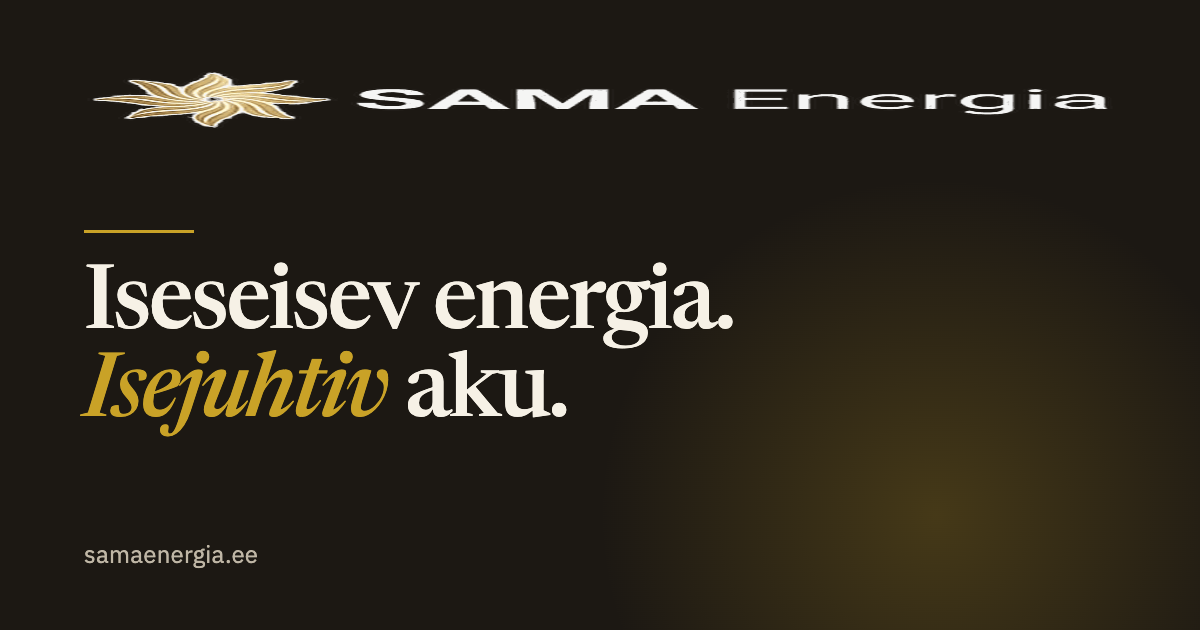
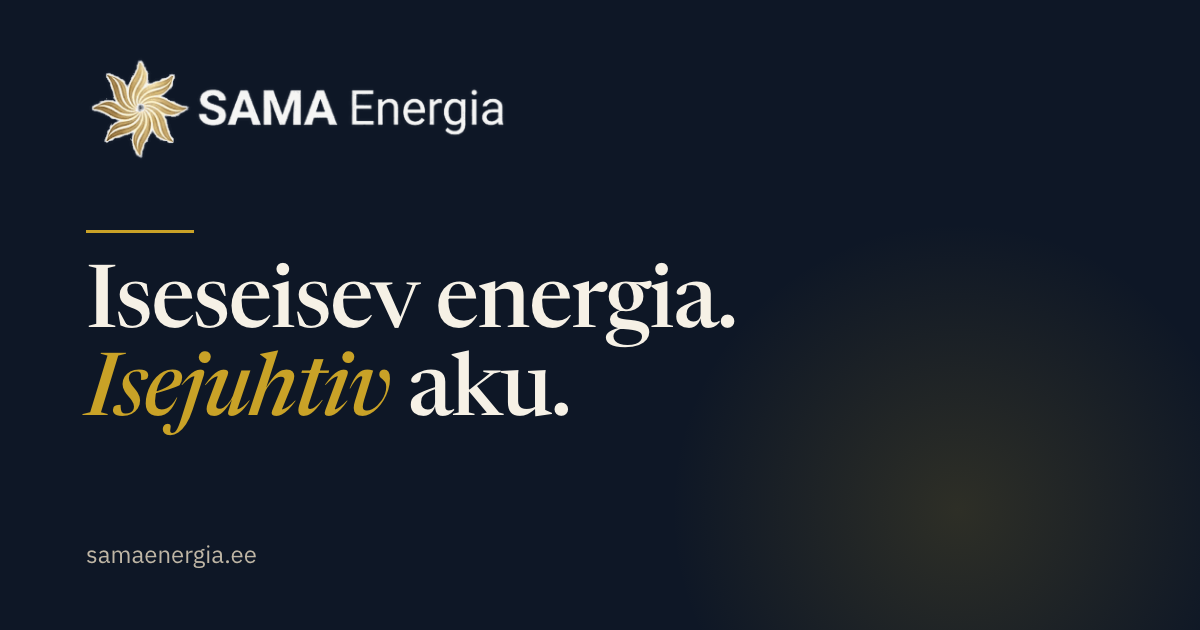
v17-4a: SVG-tyylit rajattu, OG-kuvat siniselle, hero-CLS (a1)
- Kaavioiden omat <style>-lohkot (9 kpl: chart-scale, chart-day, chart-yield,
  chart-figure) rajattu juuriluokkaansa; ne vuotivat koko dokumenttiin.
  Alle 600 px:n ohitukset site.css:ssä saivat svg-etuliitteen, jotta ne
  yhä voittavat rajatut säännöt dokumenttijärjestyksessä.
  Selitteiden koot ja piilotukset ennallaan 1440:ssä ja 390:ssä;
  11 kaaviosivua × 2 leveyttä pikselidiff = 0.
- OG-kuvat renderöity uudelleen yöpaletin pohjalle (#1C1813 -> #0E1726).
  Malli puuttui reposta; rakennettu uudelleen (scripts/og/og-template.html)
  ja renderöinti riippuvuudettomalla skriptillä (scripts/og/render-og.mjs).
  Sama 1200x630, sama typografia (otsikkolohko 3 px:n sisällä entisestä),
  sama logo — mutta oikeassa kuvasuhteessa: entisissä mark-night.png oli
  venytetty 878x222 -> ~1013x55.
- Hero-CLS: ei muutosta. Mitattu CLS 0 (Lighthouse mobile, mediaani, molemmat
  kielet) ja 0,0001-0,0172 kun fontit viivastettiin 1,5 s; h1:n korkeus on
  identtinen webfontilla ja varafontilla kaikilla mittapisteillä, joten
  min-height olisi kuollutta CSS:aa. Luvut raportissa.

diff --git a/src/fi.html b/src/fi.html
@@ -132,7 +132,7 @@
     </div>
     <div class="card reveal">
       <svg viewBox="0 0 440 230" fill="none" class="chart-scale">
-          <defs><style>.lab{font:600 11px 'IBM Plex Sans',sans-serif;letter-spacing:.06em}.hz{font:500 13px 'IBM Plex Sans',sans-serif}.sec{font:400 11.5px 'IBM Plex Sans',sans-serif}.flow{font:500 11.5px 'IBM Plex Sans',sans-serif}</style></defs>
+          <defs><style>.chart-scale .lab{font:600 11px 'IBM Plex Sans',sans-serif;letter-spacing:.06em}.chart-scale .hz{font:500 13px 'IBM Plex Sans',sans-serif}.chart-scale .sec{font:400 11.5px 'IBM Plex Sans',sans-serif}.chart-scale .flow{font:500 11.5px 'IBM Plex Sans',sans-serif}</style></defs>
           <path d="M206 150h28l-14-64z" fill="#F3EEE1" stroke="#8B857A" stroke-width="1.2" stroke-linejoin="round"/>
           <rect x="150" y="150" width="140" height="6" rx="3" fill="#F3EEE1" stroke="#8B857A" stroke-width="1"/>
           <g class="beam-loop" style="transform-origin:220px 82px"><rect x="80" y="79" width="280" height="6" rx="3" fill="#C9A227"/><circle cx="220" cy="82" r="7" fill="#fff" stroke="#C9A227" stroke-width="2"/></g>
@@ -396,7 +396,7 @@
         <defs>
           <pattern id="stripes" width="8" height="8" patternUnits="userSpaceOnUse" patternTransform="rotate(45)"><rect width="8" height="8" fill="#FBF7EA"/><rect width="2" height="8" fill="#EFE3BF"/></pattern>
           <linearGradient id="socg" x1="0" y1="0" x2="0" y2="1"><stop offset="0" stop-color="#C9A227" stop-opacity=".55"/><stop offset="1" stop-color="#C9A227" stop-opacity=".08"/></linearGradient>
-          <style>.ax{font:500 11px 'IBM Plex Sans',sans-serif;fill:#7A746A}.ph{font:600 11px 'IBM Plex Sans',sans-serif;fill:#8A6A12;letter-spacing:.06em}.tt{font:600 12px 'IBM Plex Sans',sans-serif;fill:#1F1C18}</style>
+          <style>.chart-day .ax{font:500 11px 'IBM Plex Sans',sans-serif;fill:#7A746A}.chart-day .ph{font:600 11px 'IBM Plex Sans',sans-serif;fill:#8A6A12;letter-spacing:.06em}.chart-day .tt{font:600 12px 'IBM Plex Sans',sans-serif;fill:#1F1C18}</style>
         </defs>
         <rect x="40" y="34" width="175" height="160" fill="#FBF7EA"/><rect x="285" y="34" width="70" height="160" fill="#F6EED3"/><rect x="390" y="34" width="210" height="160" fill="url(#stripes)"/><rect x="635" y="34" width="105" height="160" fill="#F6EED3"/>
         <text x="127" y="26" text-anchor="middle" class="ph">LATAA HALVALLA</text><text x="320" y="26" text-anchor="middle" class="ph">LEIKKAA HUIPUN</text><text x="495" y="14" text-anchor="middle" class="ph"><tspan x="495">ODOTTAA VALMIINA ·</tspan><tspan x="495" dy="12">TUOTTAA RESERVISSÄ</tspan></text><text x="687" y="26" text-anchor="middle" class="ph">PURKAA</text>
@@ -482,7 +482,7 @@
       </div>
       <div class="sizing reveal" aria-hidden="true">
         <svg viewBox="0 0 440 230" fill="none" class="chart-scale">
-          <defs><style>.lab{font:600 11px 'IBM Plex Sans',sans-serif;letter-spacing:.06em}.hz{font:500 13px 'IBM Plex Sans',sans-serif}.sec{font:400 11.5px 'IBM Plex Sans',sans-serif}.flow{font:500 11.5px 'IBM Plex Sans',sans-serif}</style></defs>
+          <defs><style>.chart-scale .lab{font:600 11px 'IBM Plex Sans',sans-serif;letter-spacing:.06em}.chart-scale .hz{font:500 13px 'IBM Plex Sans',sans-serif}.chart-scale .sec{font:400 11.5px 'IBM Plex Sans',sans-serif}.chart-scale .flow{font:500 11.5px 'IBM Plex Sans',sans-serif}</style></defs>
           <path d="M206 150h28l-14-64z" fill="#F3EEE1" stroke="#8B857A" stroke-width="1.2" stroke-linejoin="round"/>
           <rect x="150" y="150" width="140" height="6" rx="3" fill="#F3EEE1" stroke="#8B857A" stroke-width="1"/>
           <g class="beam-loop" style="transform-origin:220px 82px"><rect x="80" y="79" width="280" height="6" rx="3" fill="#C9A227"/><circle cx="220" cy="82" r="7" fill="#fff" stroke="#C9A227" stroke-width="2"/></g>
@@ -569,7 +569,7 @@
       </div>
       <div class="sizing reveal" aria-hidden="true">
         <svg viewBox="0 0 470 300" fill="none" class="chart-yield">
-          <defs><style>.sl{font:500 12px 'IBM Plex Sans',sans-serif;fill:#1F1C18}.ss{font:400 11px 'IBM Plex Sans',sans-serif;fill:#7A746A}.sb{font:600 13px 'IBM Plex Sans',sans-serif;fill:#8A6A12}</style></defs>
+          <defs><style>.chart-yield .sl{font:500 12px 'IBM Plex Sans',sans-serif;fill:#1F1C18}.chart-yield .ss{font:400 11px 'IBM Plex Sans',sans-serif;fill:#7A746A}.chart-yield .sb{font:600 13px 'IBM Plex Sans',sans-serif;fill:#8A6A12}</style></defs>
           <rect x="24" y="40" width="160" height="78" rx="10" fill="#FBF7EA" stroke="#D8D0BC"/>
           <text x="104" y="66" text-anchor="middle" class="sl">Invertteri</text><text x="104" y="92" text-anchor="middle" style="font:500 26px 'Newsreader',serif;fill:#8A6A12">1 MW</text><text x="104" y="111" text-anchor="middle" class="ss">teho = kuinka paljon</text>
           <rect x="24" y="136" width="160" height="78" rx="10" fill="#FBF7EA" stroke="#D8D0BC"/>
@@ -1057,7 +1057,7 @@
 
         <div class="figure">
           <svg viewBox="0 0 620 190" class="chart-figure" role="img" aria-label="Sovitut liitynnät noin 1 800 MW, liityntäkyselyt yli 30 000 MW">
-            <defs><style>.gl{font:500 13px 'IBM Plex Sans',sans-serif;fill:#1F1C18}.gs{font:400 12px 'IBM Plex Sans',sans-serif;fill:#7A746A}.gv{font:500 22px 'Newsreader',serif;fill:#8A6A12}</style></defs>
+            <defs><style>.chart-figure .gl{font:500 13px 'IBM Plex Sans',sans-serif;fill:#1F1C18}.chart-figure .gs{font:400 12px 'IBM Plex Sans',sans-serif;fill:#7A746A}.chart-figure .gv{font:500 22px 'Newsreader',serif;fill:#8A6A12}</style></defs>
             <text x="20" y="30" class="gl">Sovitut liitynnät kantaverkkoon</text>
             <rect x="20" y="42" width="580" height="18" rx="9" fill="#F3EEE1"/>
             <rect x="20" y="42" width="35" height="18" rx="9" fill="#C9A227"/>

diff --git a/src/et.html b/src/et.html
@@ -373,7 +373,7 @@
         <defs>
           <pattern id="stripes" width="8" height="8" patternUnits="userSpaceOnUse" patternTransform="rotate(45)"><rect width="8" height="8" fill="#FBF7EA"/><rect width="2" height="8" fill="#EFE3BF"/></pattern>
           <linearGradient id="socg" x1="0" y1="0" x2="0" y2="1"><stop offset="0" stop-color="#C9A227" stop-opacity=".55"/><stop offset="1" stop-color="#C9A227" stop-opacity=".08"/></linearGradient>
-          <style>.ax{font:500 11px 'IBM Plex Sans',sans-serif;fill:#7A746A}.ph{font:600 11px 'IBM Plex Sans',sans-serif;fill:#8A6A12;letter-spacing:.06em}.tt{font:600 12px 'IBM Plex Sans',sans-serif;fill:#1F1C18}</style>
+          <style>.chart-day .ax{font:500 11px 'IBM Plex Sans',sans-serif;fill:#7A746A}.chart-day .ph{font:600 11px 'IBM Plex Sans',sans-serif;fill:#8A6A12;letter-spacing:.06em}.chart-day .tt{font:600 12px 'IBM Plex Sans',sans-serif;fill:#1F1C18}</style>
         </defs>
         <rect x="40" y="34" width="175" height="160" fill="#FBF7EA"/><rect x="285" y="34" width="70" height="160" fill="#F6EED3"/><rect x="390" y="34" width="210" height="160" fill="url(#stripes)"/><rect x="635" y="34" width="105" height="160" fill="#F6EED3"/>
         <text x="127" y="26" text-anchor="middle" class="ph">LAEB ODAVALT</text><text x="320" y="26" text-anchor="middle" class="ph">LÕIKAB TIPU</text><text x="495" y="14" text-anchor="middle" class="ph"><tspan x="495">OOTAB VALMIS ·</tspan><tspan x="495" dy="12">TEENIB RESERVITURUL</tspan></text><text x="687" y="26" text-anchor="middle" class="ph">ANNAB VÄLJA</text>
@@ -459,7 +459,7 @@
       </div>
       <div class="sizing reveal" aria-hidden="true">
         <svg viewBox="0 0 440 230" fill="none" class="chart-scale">
-          <defs><style>.lab{font:600 11px 'IBM Plex Sans',sans-serif;letter-spacing:.06em}.hz{font:500 13px 'IBM Plex Sans',sans-serif}.sec{font:400 11.5px 'IBM Plex Sans',sans-serif}.flow{font:500 11.5px 'IBM Plex Sans',sans-serif}</style></defs>
+          <defs><style>.chart-scale .lab{font:600 11px 'IBM Plex Sans',sans-serif;letter-spacing:.06em}.chart-scale .hz{font:500 13px 'IBM Plex Sans',sans-serif}.chart-scale .sec{font:400 11.5px 'IBM Plex Sans',sans-serif}.chart-scale .flow{font:500 11.5px 'IBM Plex Sans',sans-serif}</style></defs>
           <path d="M206 150h28l-14-64z" fill="#F3EEE1" stroke="#8B857A" stroke-width="1.2" stroke-linejoin="round"/>
           <rect x="150" y="150" width="140" height="6" rx="3" fill="#F3EEE1" stroke="#8B857A" stroke-width="1"/>
           <g class="beam-loop" style="transform-origin:220px 82px"><rect x="80" y="79" width="280" height="6" rx="3" fill="#C9A227"/><circle cx="220" cy="82" r="7" fill="#fff" stroke="#C9A227" stroke-width="2"/></g>
@@ -540,7 +540,7 @@
       </div>
       <div class="sizing reveal" aria-hidden="true">
         <svg viewBox="0 0 470 300" fill="none" class="chart-yield">
-          <defs><style>.sl{font:500 12px 'IBM Plex Sans',sans-serif;fill:#1F1C18}.ss{font:400 11px 'IBM Plex Sans',sans-serif;fill:#7A746A}.sb{font:600 13px 'IBM Plex Sans',sans-serif;fill:#8A6A12}</style><linearGradient id="gg2" x1="0" x2="1"><stop offset="0" stop-color="#F3EEE1"/><stop offset="1" stop-color="#C9A227"/></linearGradient></defs>
+          <defs><style>.chart-yield .sl{font:500 12px 'IBM Plex Sans',sans-serif;fill:#1F1C18}.chart-yield .ss{font:400 11px 'IBM Plex Sans',sans-serif;fill:#7A746A}.chart-yield .sb{font:600 13px 'IBM Plex Sans',sans-serif;fill:#8A6A12}</style><linearGradient id="gg2" x1="0" x2="1"><stop offset="0" stop-color="#F3EEE1"/><stop offset="1" stop-color="#C9A227"/></linearGradient></defs>
           <rect x="24" y="40" width="160" height="78" rx="10" fill="#FBF7EA" stroke="#D8D0BC"/>
           <text x="104" y="66" text-anchor="middle" class="sl">Inverter</text><text x="104" y="92" text-anchor="middle" style="font:500 26px 'Newsreader',serif;fill:#8A6A12">1 MW</text><text x="104" y="111" text-anchor="middle" class="ss">võimsus = kui palju</text>
           <rect x="24" y="136" width="160" height="78" rx="10" fill="#FBF7EA" stroke="#D8D0BC"/>
@@ -1009,7 +1009,7 @@
 
         <div class="figure">
           <svg viewBox="0 0 620 180" class="chart-figure" role="img" aria-label="Tasakaalustamisvõimsuse kulu 3,73 €/MWh 2026 ja 2,97 €/MWh alates 2027">
-            <defs><style>.bl{font:500 13px 'IBM Plex Sans',sans-serif;fill:#1F1C18}.bs{font:400 12px 'IBM Plex Sans',sans-serif;fill:#7A746A}.bv{font:500 26px 'Newsreader',serif;fill:#8A6A12}</style></defs>
+            <defs><style>.chart-figure .bl{font:500 13px 'IBM Plex Sans',sans-serif;fill:#1F1C18}.chart-figure .bs{font:400 12px 'IBM Plex Sans',sans-serif;fill:#7A746A}.chart-figure .bv{font:500 26px 'Newsreader',serif;fill:#8A6A12}</style></defs>
             <line x1="20" y1="140" x2="600" y2="140" stroke="#D8D0BC"/>
             <rect x="70" y="36" width="150" height="104" rx="4" fill="#C9A227" opacity=".85"/>
             <rect x="330" y="57" width="150" height="83" rx="4" fill="#C9A227" opacity=".45"/>

diff --git a/et/reserviturg/index.html b/et/reserviturg/index.html
@@ -107,7 +107,7 @@
       </div>
       <div class="sizing reveal" aria-hidden="true">
         <svg viewBox="0 0 440 230" fill="none" class="chart-scale">
-          <defs><style>.lab{font:600 11px 'IBM Plex Sans',sans-serif;letter-spacing:.06em}.hz{font:500 13px 'IBM Plex Sans',sans-serif}.sec{font:400 11.5px 'IBM Plex Sans',sans-serif}.flow{font:500 11.5px 'IBM Plex Sans',sans-serif}</style></defs>
+          <defs><style>.chart-scale .lab{font:600 11px 'IBM Plex Sans',sans-serif;letter-spacing:.06em}.chart-scale .hz{font:500 13px 'IBM Plex Sans',sans-serif}.chart-scale .sec{font:400 11.5px 'IBM Plex Sans',sans-serif}.chart-scale .flow{font:500 11.5px 'IBM Plex Sans',sans-serif}</style></defs>
           <path d="M206 150h28l-14-64z" fill="#F3EEE1" stroke="#8B857A" stroke-width="1.2" stroke-linejoin="round"/>
           <rect x="150" y="150" width="140" height="6" rx="3" fill="#F3EEE1" stroke="#8B857A" stroke-width="1"/>
           <g class="beam-loop" style="transform-origin:220px 82px"><rect x="80" y="79" width="280" height="6" rx="3" fill="#C9A227"/><circle cx="220" cy="82" r="7" fill="#fff" stroke="#C9A227" stroke-width="2"/></g>
@@ -188,7 +188,7 @@
       </div>
       <div class="sizing reveal" aria-hidden="true">
         <svg viewBox="0 0 470 300" fill="none" class="chart-yield">
-          <defs><style>.sl{font:500 12px 'IBM Plex Sans',sans-serif;fill:#1F1C18}.ss{font:400 11px 'IBM Plex Sans',sans-serif;fill:#7A746A}.sb{font:600 13px 'IBM Plex Sans',sans-serif;fill:#8A6A12}</style><linearGradient id="gg2" x1="0" x2="1"><stop offset="0" stop-color="#F3EEE1"/><stop offset="1" stop-color="#C9A227"/></linearGradient></defs>
+          <defs><style>.chart-yield .sl{font:500 12px 'IBM Plex Sans',sans-serif;fill:#1F1C18}.chart-yield .ss{font:400 11px 'IBM Plex Sans',sans-serif;fill:#7A746A}.chart-yield .sb{font:600 13px 'IBM Plex Sans',sans-serif;fill:#8A6A12}</style><linearGradient id="gg2" x1="0" x2="1"><stop offset="0" stop-color="#F3EEE1"/><stop offset="1" stop-color="#C9A227"/></linearGradient></defs>
           <rect x="24" y="40" width="160" height="78" rx="10" fill="#FBF7EA" stroke="#D8D0BC"/>
           <text x="104" y="66" text-anchor="middle" class="sl">Inverter</text><text x="104" y="92" text-anchor="middle" style="font:500 26px 'Newsreader',serif;fill:#8A6A12">1 MW</text><text x="104" y="111" text-anchor="middle" class="ss">võimsus = kui palju</text>
           <rect x="24" y="136" width="160" height="78" rx="10" fill="#FBF7EA" stroke="#D8D0BC"/>

diff --git a/scripts/og/og-template.html b/scripts/og/og-template.html
@@ -1,0 +1,44 @@
+<!DOCTYPE html>
+<html lang="fi">
+<!-- SAMA Energia — Open Graph -kuvan malli (1200×630). Ei ollut repossa ennen 08.09.2026;
+     rakennettu uudelleen footerin logosta ja brändiriviltä, kun yöpaletti vaihtui (v17).
+     Renderöinti: node scripts/og/render-og.mjs  → assets/og-fi.png ja assets/og-et.png
+     Kielen valinta kyselyparametrilla: og-template.html?lang=fi | ?lang=et -->
+<head>
+<meta charset="utf-8">
+<title>SAMA Energia — OG</title>
+<link rel="stylesheet" href="../../assets/fonts.css">
+<style>
+  :root{--night:#0E1726;--gold:#C9A227;--night-ink:#F6F1E6;--night-ink-2:#BFB6A5}
+  *{margin:0;padding:0;box-sizing:border-box}
+  html,body{width:1200px;height:630px;overflow:hidden}
+  body{background:var(--night);position:relative;font-family:'IBM Plex Sans',system-ui,sans-serif;-webkit-font-smoothing:antialiased}
+  /* sama kultahehku kuin sivuston tummissa nauhoissa (.teaser::before) */
+  body::before{content:"";position:absolute;inset:auto -14% -46% auto;width:820px;height:820px;
+    background:radial-gradient(closest-side,rgba(201,162,39,.17),rgba(201,162,39,0) 70%)}
+  .logo{position:absolute;left:88px;top:56px;width:420px;height:106px;object-fit:contain;object-position:left center}
+  .rule{position:absolute;left:86px;top:230px;width:108px;height:3px;background:var(--gold)}
+  h1{position:absolute;left:86px;top:263px;width:1030px;
+     font-family:'Newsreader',Georgia,serif;font-weight:500;font-size:87px;line-height:88px;
+     letter-spacing:-.02em;color:var(--night-ink)}
+  h1 em{font-style:italic;color:var(--gold)}
+  .domain{position:absolute;left:86px;top:538px;font-size:24px;font-weight:400;color:var(--night-ink-2)}
+</style>
+</head>
+<body>
+  <img class="logo" src="../../assets/mark-night.png" alt="">
+  <div class="rule"></div>
+  <h1 id="t"></h1>
+  <p class="domain" id="d"></p>
+<script>
+  var COPY = {
+    fi: { h: 'Itsenäinen energia.<br><em>Itseohjautuva</em> akku.', d: 'samaenergia.fi' },
+    et: { h: 'Iseseisev energia.<br><em>Isejuhtiv</em> aku.',           d: 'samaenergia.ee' }
+  };
+  var lang = (location.search.match(/lang=(fi|et)/) || [])[1] || 'fi';
+  document.documentElement.lang = lang;
+  document.getElementById('t').innerHTML = COPY[lang].h;
+  document.getElementById('d').textContent = COPY[lang].d;
+</script>
+</body>
+</html>

diff --git a/reservimarkkinat/index.html b/reservimarkkinat/index.html
@@ -107,7 +107,7 @@
       </div>
       <div class="sizing reveal" aria-hidden="true">
         <svg viewBox="0 0 440 230" fill="none" class="chart-scale">
-          <defs><style>.lab{font:600 11px 'IBM Plex Sans',sans-serif;letter-spacing:.06em}.hz{font:500 13px 'IBM Plex Sans',sans-serif}.sec{font:400 11.5px 'IBM Plex Sans',sans-serif}.flow{font:500 11.5px 'IBM Plex Sans',sans-serif}</style></defs>
+          <defs><style>.chart-scale .lab{font:600 11px 'IBM Plex Sans',sans-serif;letter-spacing:.06em}.chart-scale .hz{font:500 13px 'IBM Plex Sans',sans-serif}.chart-scale .sec{font:400 11.5px 'IBM Plex Sans',sans-serif}.chart-scale .flow{font:500 11.5px 'IBM Plex Sans',sans-serif}</style></defs>
           <path d="M206 150h28l-14-64z" fill="#F3EEE1" stroke="#8B857A" stroke-width="1.2" stroke-linejoin="round"/>
           <rect x="150" y="150" width="140" height="6" rx="3" fill="#F3EEE1" stroke="#8B857A" stroke-width="1"/>
           <g class="beam-loop" style="transform-origin:220px 82px"><rect x="80" y="79" width="280" height="6" rx="3" fill="#C9A227"/><circle cx="220" cy="82" r="7" fill="#fff" stroke="#C9A227" stroke-width="2"/></g>
@@ -193,7 +193,7 @@
       </div>
       <div class="sizing reveal" aria-hidden="true">
         <svg viewBox="0 0 470 300" fill="none" class="chart-yield">
-          <defs><style>.sl{font:500 12px 'IBM Plex Sans',sans-serif;fill:#1F1C18}.ss{font:400 11px 'IBM Plex Sans',sans-serif;fill:#7A746A}.sb{font:600 13px 'IBM Plex Sans',sans-serif;fill:#8A6A12}</style></defs>
+          <defs><style>.chart-yield .sl{font:500 12px 'IBM Plex Sans',sans-serif;fill:#1F1C18}.chart-yield .ss{font:400 11px 'IBM Plex Sans',sans-serif;fill:#7A746A}.chart-yield .sb{font:600 13px 'IBM Plex Sans',sans-serif;fill:#8A6A12}</style></defs>
           <rect x="24" y="40" width="160" height="78" rx="10" fill="#FBF7EA" stroke="#D8D0BC"/>
           <text x="104" y="66" text-anchor="middle" class="sl">Invertteri</text><text x="104" y="92" text-anchor="middle" style="font:500 26px 'Newsreader',serif;fill:#8A6A12">1 MW</text><text x="104" y="111" text-anchor="middle" class="ss">teho = kuinka paljon</text>
           <rect x="24" y="136" width="160" height="78" rx="10" fill="#FBF7EA" stroke="#D8D0BC"/>

diff --git a/assets/site.css b/assets/site.css
@@ -673,21 +673,23 @@ a.post:hover{transform:translateY(-3px);box-shadow:0 26px 44px -34px rgba(31,28,
 /* ---------- kuvitukset kapeilla näytöillä ----------
    SVG-kaaviot skaalautuvat viewBoxin mukaan; alle 600 px:n näytöllä toissijaiset selitteet
    (.ns/.ss/.sec/.gs/.bs) piilotetaan ja ensisijaiset nostetaan niin, että ne piirtyvät ≥ 10 px.
+   Kaavioiden omat <style>-lohkot on rajattu juuriluokkaan (08.09.2026), joten ne ovat (0,2,0);
+   nämä ohitukset tarvitsevat svg-etuliitteen (0,2,1) voittaakseen ne dokumenttijärjestyksessä.
    Akun päivä -kaavio (900 yksikköä leveä) piirtyy alle 600 px:n leveydellä ilman tekstejä:
    selite (.legend) ja .day-notes kertovat sarjat ja kellonajat sen alla. */
 @media (max-width:900px){
   .hero-bg svg{height:13%} /* pinotussa herossa aaltoviiva jää alareunan tyhjään tilaan, ei nappien tai merkkien taakse */
 }
 @media (max-width:600px){
-  .chart-day .ph,.chart-day .ax,.chart-day .tt{display:none}
+  svg.chart-day .ph,svg.chart-day .ax,svg.chart-day .tt{display:none}
   .chart-structure .ns{display:none}
   .chart-structure text.nl{font-size:15.5px}
-  .chart-scale .sec{display:none}
-  .chart-scale .lab,.chart-scale .hz{font-size:15px}
-  .chart-yield .ss{display:none}
-  .chart-yield .sl,.chart-yield .sb{font-size:16px}
-  .chart-figure .bs{display:none}
-  .chart-figure .gl,.chart-figure .bl{font-size:21px}
+  svg.chart-scale .sec{display:none}
+  svg.chart-scale .lab,svg.chart-scale .hz{font-size:15px}
+  svg.chart-yield .ss{display:none}
+  svg.chart-yield .sl,svg.chart-yield .sb{font-size:16px}
+  svg.chart-figure .bs{display:none}
+  svg.chart-figure .gl,svg.chart-figure .bl{font-size:21px}
   .chart-system .ns{display:none}
   .chart-system text.nl{font-size:16.5px}
 }

diff --git a/energiavarastot/index.html b/energiavarastot/index.html
@@ -134,7 +134,7 @@
         <defs>
           <pattern id="stripes" width="8" height="8" patternUnits="userSpaceOnUse" patternTransform="rotate(45)"><rect width="8" height="8" fill="#FBF7EA"/><rect width="2" height="8" fill="#EFE3BF"/></pattern>
           <linearGradient id="socg" x1="0" y1="0" x2="0" y2="1"><stop offset="0" stop-color="#C9A227" stop-opacity=".55"/><stop offset="1" stop-color="#C9A227" stop-opacity=".08"/></linearGradient>
-          <style>.ax{font:500 11px 'IBM Plex Sans',sans-serif;fill:#7A746A}.ph{font:600 11px 'IBM Plex Sans',sans-serif;fill:#8A6A12;letter-spacing:.06em}.tt{font:600 12px 'IBM Plex Sans',sans-serif;fill:#1F1C18}</style>
+          <style>.chart-day .ax{font:500 11px 'IBM Plex Sans',sans-serif;fill:#7A746A}.chart-day .ph{font:600 11px 'IBM Plex Sans',sans-serif;fill:#8A6A12;letter-spacing:.06em}.chart-day .tt{font:600 12px 'IBM Plex Sans',sans-serif;fill:#1F1C18}</style>
         </defs>
         <rect x="40" y="34" width="175" height="160" fill="#FBF7EA"/><rect x="285" y="34" width="70" height="160" fill="#F6EED3"/><rect x="390" y="34" width="210" height="160" fill="url(#stripes)"/><rect x="635" y="34" width="105" height="160" fill="#F6EED3"/>
         <text x="127" y="26" text-anchor="middle" class="ph">LATAA HALVALLA</text><text x="320" y="26" text-anchor="middle" class="ph">LEIKKAA HUIPUN</text><text x="495" y="14" text-anchor="middle" class="ph"><tspan x="495">ODOTTAA VALMIINA ·</tspan><tspan x="495" dy="12">TUOTTAA RESERVISSÄ</tspan></text><text x="687" y="26" text-anchor="middle" class="ph">PURKAA</text>

diff --git a/et/energiasalvestid/index.html b/et/energiasalvestid/index.html
@@ -134,7 +134,7 @@
         <defs>
           <pattern id="stripes" width="8" height="8" patternUnits="userSpaceOnUse" patternTransform="rotate(45)"><rect width="8" height="8" fill="#FBF7EA"/><rect width="2" height="8" fill="#EFE3BF"/></pattern>
           <linearGradient id="socg" x1="0" y1="0" x2="0" y2="1"><stop offset="0" stop-color="#C9A227" stop-opacity=".55"/><stop offset="1" stop-color="#C9A227" stop-opacity=".08"/></linearGradient>
-          <style>.ax{font:500 11px 'IBM Plex Sans',sans-serif;fill:#7A746A}.ph{font:600 11px 'IBM Plex Sans',sans-serif;fill:#8A6A12;letter-spacing:.06em}.tt{font:600 12px 'IBM Plex Sans',sans-serif;fill:#1F1C18}</style>
+          <style>.chart-day .ax{font:500 11px 'IBM Plex Sans',sans-serif;fill:#7A746A}.chart-day .ph{font:600 11px 'IBM Plex Sans',sans-serif;fill:#8A6A12;letter-spacing:.06em}.chart-day .tt{font:600 12px 'IBM Plex Sans',sans-serif;fill:#1F1C18}</style>
         </defs>
         <rect x="40" y="34" width="175" height="160" fill="#FBF7EA"/><rect x="285" y="34" width="70" height="160" fill="#F6EED3"/><rect x="390" y="34" width="210" height="160" fill="url(#stripes)"/><rect x="635" y="34" width="105" height="160" fill="#F6EED3"/>
         <text x="127" y="26" text-anchor="middle" class="ph">LAEB ODAVALT</text><text x="320" y="26" text-anchor="middle" class="ph">LÕIKAB TIPU</text><text x="495" y="14" text-anchor="middle" class="ph"><tspan x="495">OOTAB VALMIS ·</tspan><tspan x="495" dy="12">TEENIB RESERVITURUL</tspan></text><text x="687" y="26" text-anchor="middle" class="ph">ANNAB VÄLJA</text>

diff --git a/index.html b/index.html
@@ -149,7 +149,7 @@
     </div>
     <div class="card reveal">
       <svg viewBox="0 0 440 230" fill="none" class="chart-scale">
-          <defs><style>.lab{font:600 11px 'IBM Plex Sans',sans-serif;letter-spacing:.06em}.hz{font:500 13px 'IBM Plex Sans',sans-serif}.sec{font:400 11.5px 'IBM Plex Sans',sans-serif}.flow{font:500 11.5px 'IBM Plex Sans',sans-serif}</style></defs>
+          <defs><style>.chart-scale .lab{font:600 11px 'IBM Plex Sans',sans-serif;letter-spacing:.06em}.chart-scale .hz{font:500 13px 'IBM Plex Sans',sans-serif}.chart-scale .sec{font:400 11.5px 'IBM Plex Sans',sans-serif}.chart-scale .flow{font:500 11.5px 'IBM Plex Sans',sans-serif}</style></defs>
           <path d="M206 150h28l-14-64z" fill="#F3EEE1" stroke="#8B857A" stroke-width="1.2" stroke-linejoin="round"/>
           <rect x="150" y="150" width="140" height="6" rx="3" fill="#F3EEE1" stroke="#8B857A" stroke-width="1"/>
           <g class="beam-loop" style="transform-origin:220px 82px"><rect x="80" y="79" width="280" height="6" rx="3" fill="#C9A227"/><circle cx="220" cy="82" r="7" fill="#fff" stroke="#C9A227" stroke-width="2"/></g>

diff --git a/et/uudised/reservitasu-2026/index.html b/et/uudised/reservitasu-2026/index.html
@@ -97,7 +97,7 @@
 
         <div class="figure">
           <svg viewBox="0 0 620 180" class="chart-figure" role="img" aria-label="Tasakaalustamisvõimsuse kulu 3,73 €/MWh 2026 ja 2,97 €/MWh alates 2027">
-            <defs><style>.bl{font:500 13px 'IBM Plex Sans',sans-serif;fill:#1F1C18}.bs{font:400 12px 'IBM Plex Sans',sans-serif;fill:#7A746A}.bv{font:500 26px 'Newsreader',serif;fill:#8A6A12}</style></defs>
+            <defs><style>.chart-figure .bl{font:500 13px 'IBM Plex Sans',sans-serif;fill:#1F1C18}.chart-figure .bs{font:400 12px 'IBM Plex Sans',sans-serif;fill:#7A746A}.chart-figure .bv{font:500 26px 'Newsreader',serif;fill:#8A6A12}</style></defs>
             <line x1="20" y1="140" x2="600" y2="140" stroke="#D8D0BC"/>
             <rect x="70" y="36" width="150" height="104" rx="4" fill="#C9A227" opacity=".85"/>
             <rect x="330" y="57" width="150" height="83" rx="4" fill="#C9A227" opacity=".45"/>

diff --git a/ajankohtaista/liityntarajoitus-2029/index.html b/ajankohtaista/liityntarajoitus-2029/index.html
@@ -97,7 +97,7 @@
 
         <div class="figure">
           <svg viewBox="0 0 620 190" class="chart-figure" role="img" aria-label="Sovitut liitynnät noin 1 800 MW, liityntäkyselyt yli 30 000 MW">
-            <defs><style>.gl{font:500 13px 'IBM Plex Sans',sans-serif;fill:#1F1C18}.gs{font:400 12px 'IBM Plex Sans',sans-serif;fill:#7A746A}.gv{font:500 22px 'Newsreader',serif;fill:#8A6A12}</style></defs>
+            <defs><style>.chart-figure .gl{font:500 13px 'IBM Plex Sans',sans-serif;fill:#1F1C18}.chart-figure .gs{font:400 12px 'IBM Plex Sans',sans-serif;fill:#7A746A}.chart-figure .gv{font:500 22px 'Newsreader',serif;fill:#8A6A12}</style></defs>
             <text x="20" y="30" class="gl">Sovitut liitynnät kantaverkkoon</text>
             <rect x="20" y="42" width="580" height="18" rx="9" fill="#F3EEE1"/>
             <rect x="20" y="42" width="35" height="18" rx="9" fill="#C9A227"/>

diff --git a/README.md b/README.md
@@ -40,7 +40,8 @@ and `@fontsource/ibm-plex-sans` npm packages, SIL OFL) and declared in
 `assets/fonts.css` with `font-display: swap`; the build preloads the two display
 faces and the body face, and no page makes a third-party request. The two
 Open Graph images `assets/og-fi.png` / `assets/og-et.png` (1200×630) are
-rendered from a small HTML template with headless Chrome and committed; the
+rendered from `scripts/og/og-template.html` with headless Chrome
+(`node scripts/og/render-og.mjs`, run from the repo root) and committed; the
 build emits `og:image` and `twitter:card` on every page. `llms-full.txt` is
 generated from the same page HTML that is served (plain text of every public
 page, one `# Title — URL` heading per page) next to the hand-written English
